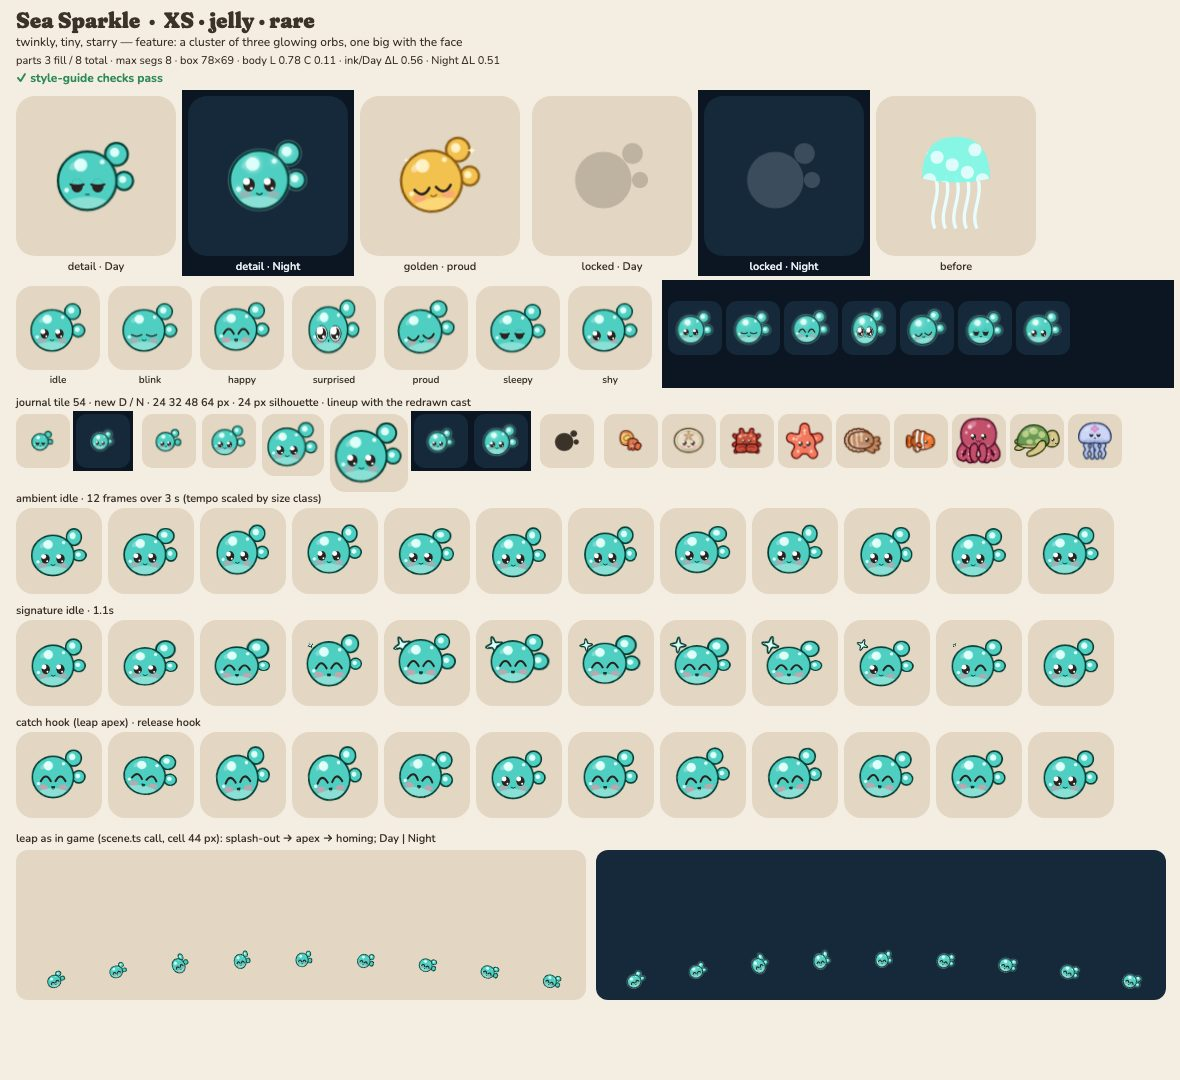
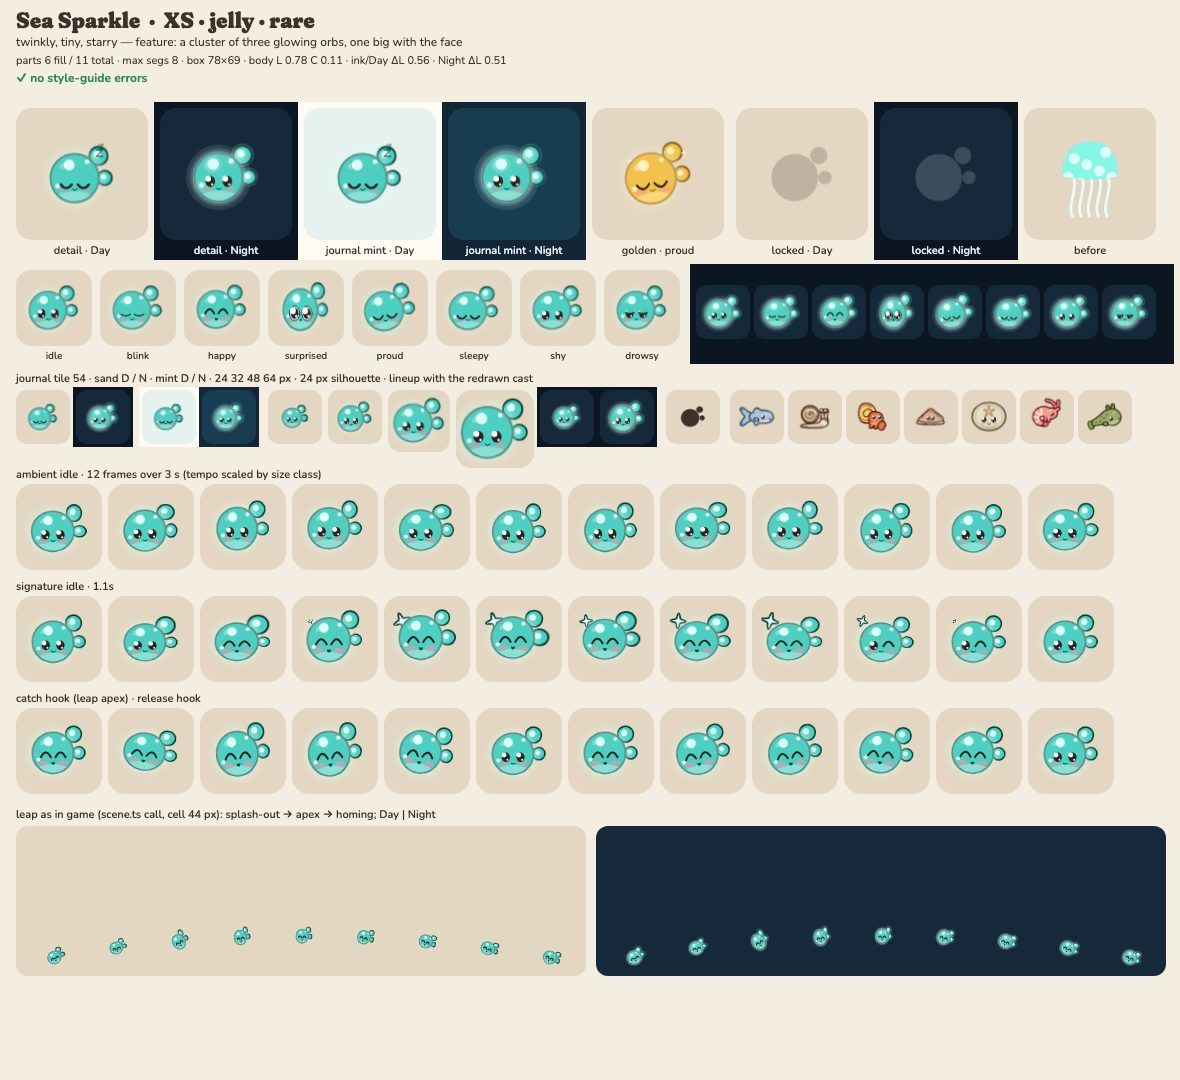
art: seasparkle Night glow halo, 6-unit specks (CRITIQUE-1)
render: sea sparkle (graded A): a soft glow halo around the big orb, three stacked no-outline
discs out to 1.4× the orb radius (α 0.12–0.2) so it falls off softly on Night and is only a faint
aura on Day; rim specks grow to 6.2 units (R18W). Note: the halo uses the accent role, not
`light`, because the baked-glow pass refills light parts at full opacity (it ignores part alpha).
Lint ✓.

diff --git a/src/render/art/species/seasparkle.ts b/src/render/art/species/seasparkle.ts
@@ -51,9 +51,13 @@ export default defineArt({
       id: 'body',
       pivot: [-6, 6],
       parts: [
+        // the glow halo (CRITIQUE-1): soft light around the big orb, no outline, not silhouette
+        { d: circle(-6, 6, 42), role: 'accent', outline: false, alpha: 0.12 },
+        { d: circle(-6, 6, 37), role: 'accent', outline: false, alpha: 0.16 },
+        { d: circle(-6, 6, 33), role: 'accent', outline: false, alpha: 0.2 },
         { d: circle(-6, 6, 30), role: 'body' },
         // a soft glowing core high on the big orb, plus two sparkle specks on its rim
-        { d: join(circle(-13, -11, 7), circle(10, -14, 2.6), circle(-28, 16, 2.6)), role: 'light', kind: 'pattern' },
+        { d: join(circle(-13, -11, 7), circle(10, -15, 3.1), circle(-28, 16, 3.1)), role: 'light', kind: 'pattern' },
         { d: ellipse(-6, 30, 22, 7), role: 'belly', kind: 'pattern', alpha: 0.7 },
       ],
     },
